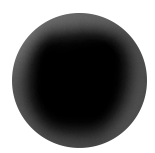
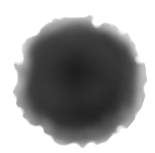
two more new rings

diff --git a/server/methods.js b/server/methods.js
@@ -49,7 +49,12 @@ Meteor.methods({
 					Meteor.users.update({_id: currentUser},{$set:{ability_extraGold: true}});
 				}else if(enchantedItem[0].name === "Ring Of Darkness"){
 					Meteor.users.update({_id: currentUser},{$set:{ability_meteorite: true}});
+				}else if(enchantedItem[0].name === "Sand Wall"){
+					Meteor.users.update({_id: currentUser},{$set:{ability_block: true}});
+				}else if(enchantedItem[0].name === "Dragon's Blood"){
+					Meteor.users.update({_id: currentUser},{$set:{ability_doubleDamage: true}});
 				}
+
 			}
 
 			return true;
@@ -83,6 +88,10 @@ Meteor.methods({
 				Meteor.users.update({_id: currentUser},{$set:{ability_extraGold: false}});
 			}else if(enchantedItem[0].name === "Ring Of Darkness"){
 				Meteor.users.update({_id: currentUser},{$set:{ability_meteorite: false}});
+			}else if(enchantedItem[0].name === "Sand Wall"){
+				Meteor.users.update({_id: currentUser},{$set:{ability_block: false}});
+			}else if(enchantedItem[0].name === "Dragon's Blood"){
+				Meteor.users.update({_id: currentUser},{$set:{ability_doubleDamage: false}});
 			}
 		}
 	},

diff --git a/server/fixtures.js b/server/fixtures.js
@@ -285,6 +285,16 @@ var allItemData = [
 		magicalPower: 'This ring grants you the ability to build regenerative tower'
 	},
 	{
+		name: "Sand Wall",
+		url: '/images/gamePage/sandWall.png',
+		type: 'relic',
+		price: 10,
+		hpBonus: 3,
+		armourBonus: 1,
+		attackBonus: 0,
+		magicalPower: 'Block all damages for 5 instances'
+	},
+	{
 		name: "Undead Bone",
 		url: '/images/gamePage/UndeadBone.png',
 		type: 'relic',
@@ -293,6 +303,16 @@ var allItemData = [
 		armourBonus: 1,
 		attackBonus: 0,
 		magicalPower: 'This ring grants you the ability to freeze all enemy monster for 3 second'
+	},
+	{
+		name: "Dragon's Blood",
+		url: '/images/gamePage/dragonsBlood.png',
+		type: 'relic',
+		price: 10,
+		hpBonus: 3,
+		armourBonus: 1,
+		attackBonus: 0,
+		magicalPower: "Double tower damage for 10 seconds"
 	},
 	{
 		name: "Ring Of Darkness",

diff --git a/server/accounts_onCreateUser.js b/server/accounts_onCreateUser.js
@@ -17,6 +17,8 @@ Accounts.onCreateUser(function(options,user) {
 	user.ability_freeze = false;
 	user.ability_extraGold = false;
 	user.ability_meteorite = false;
+	user.ability_block = false;
+	user.ability_doubleDamage = false;
 	// the next two items are for adding friends
 	user.followers =[];
 	user.following = [];
